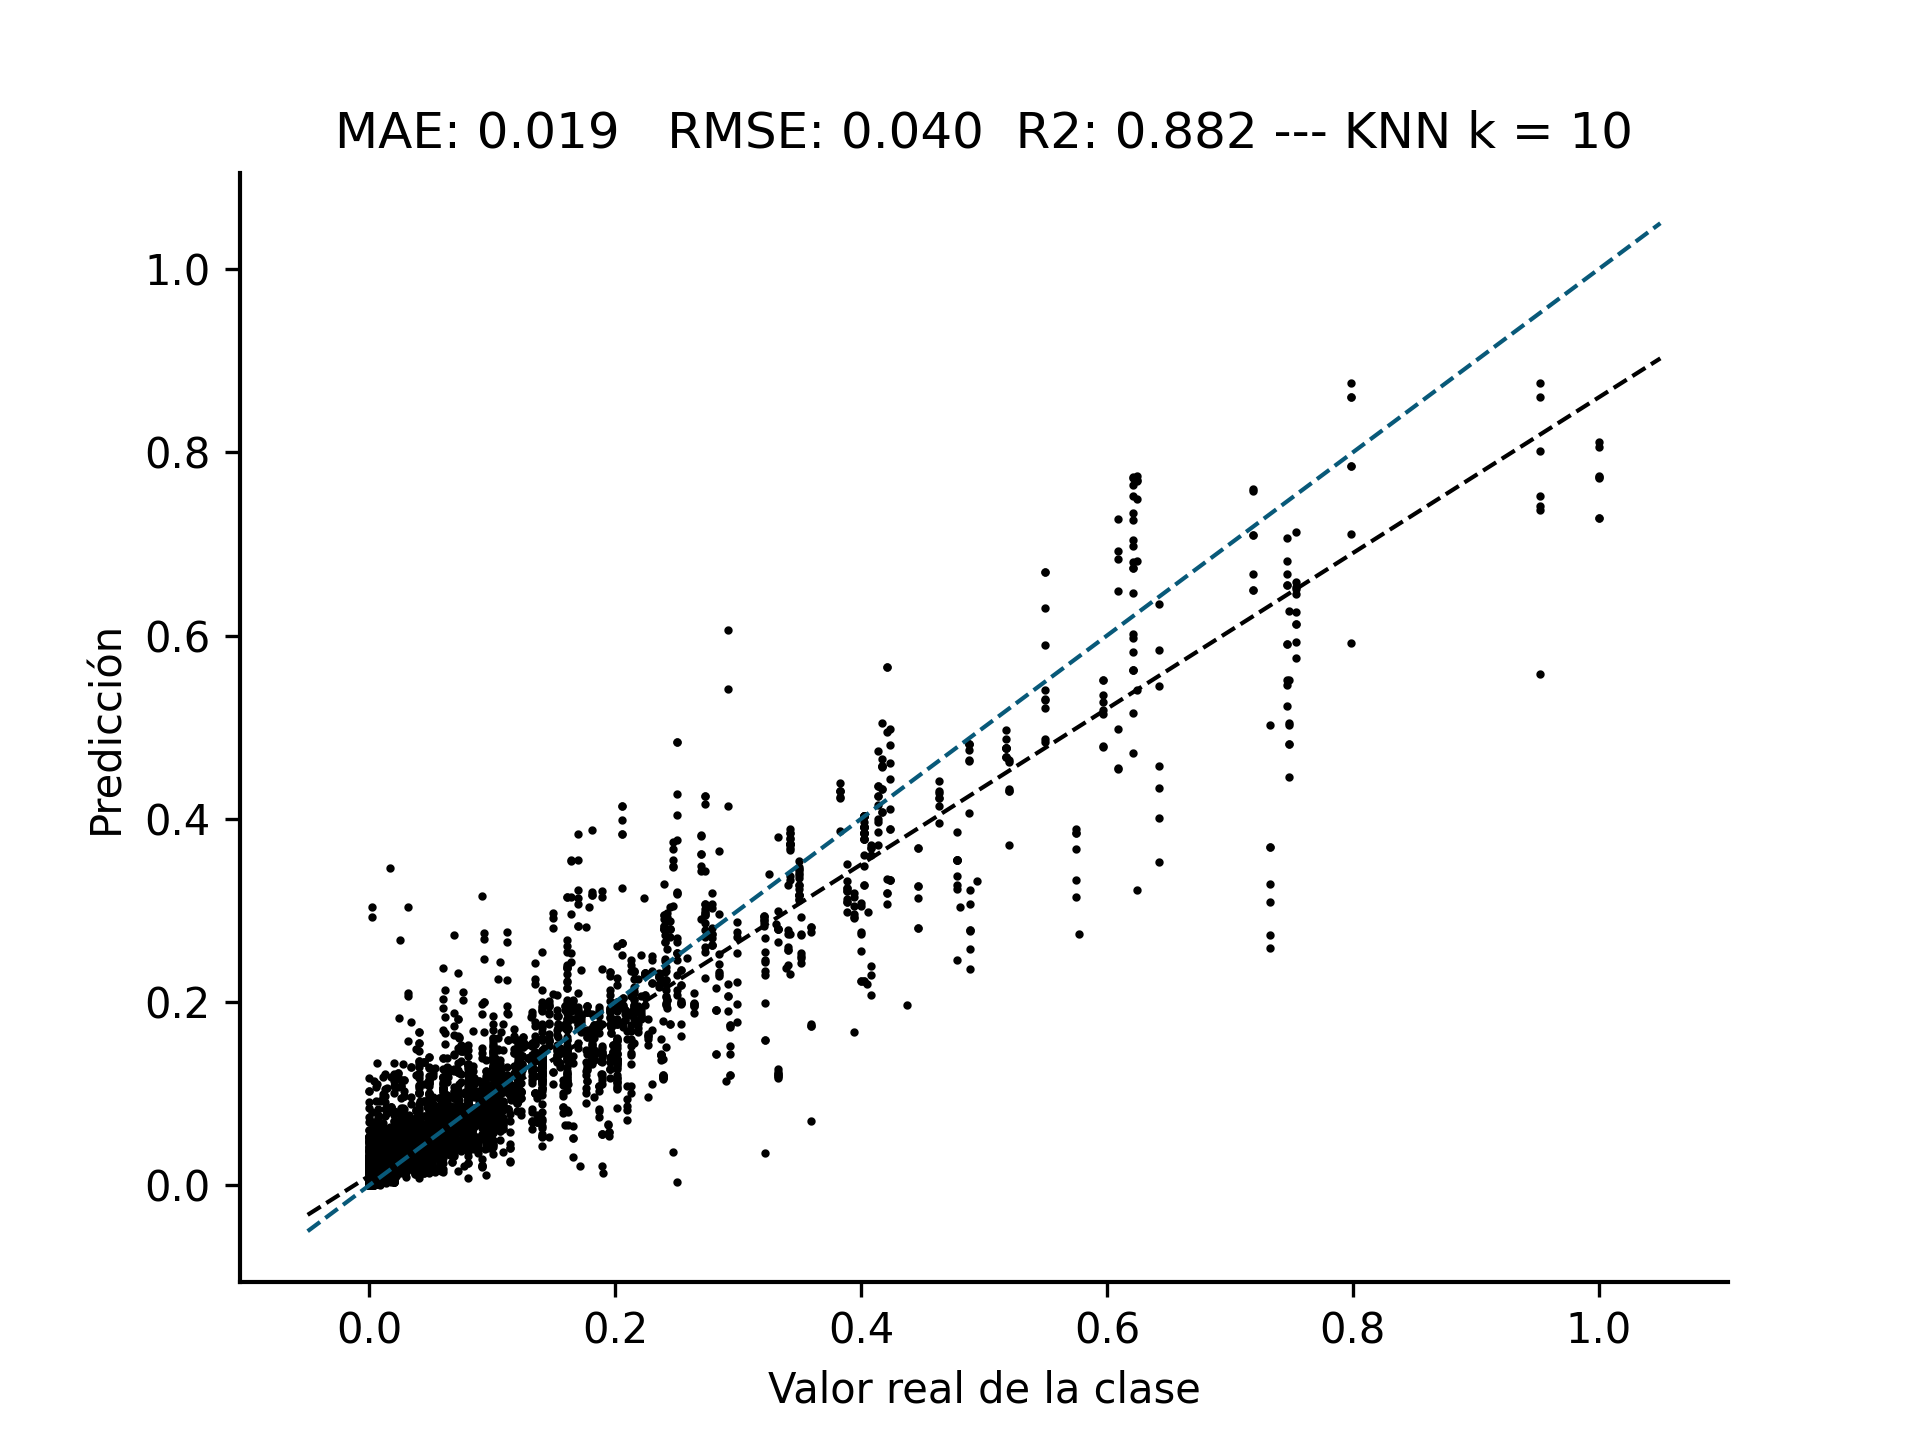
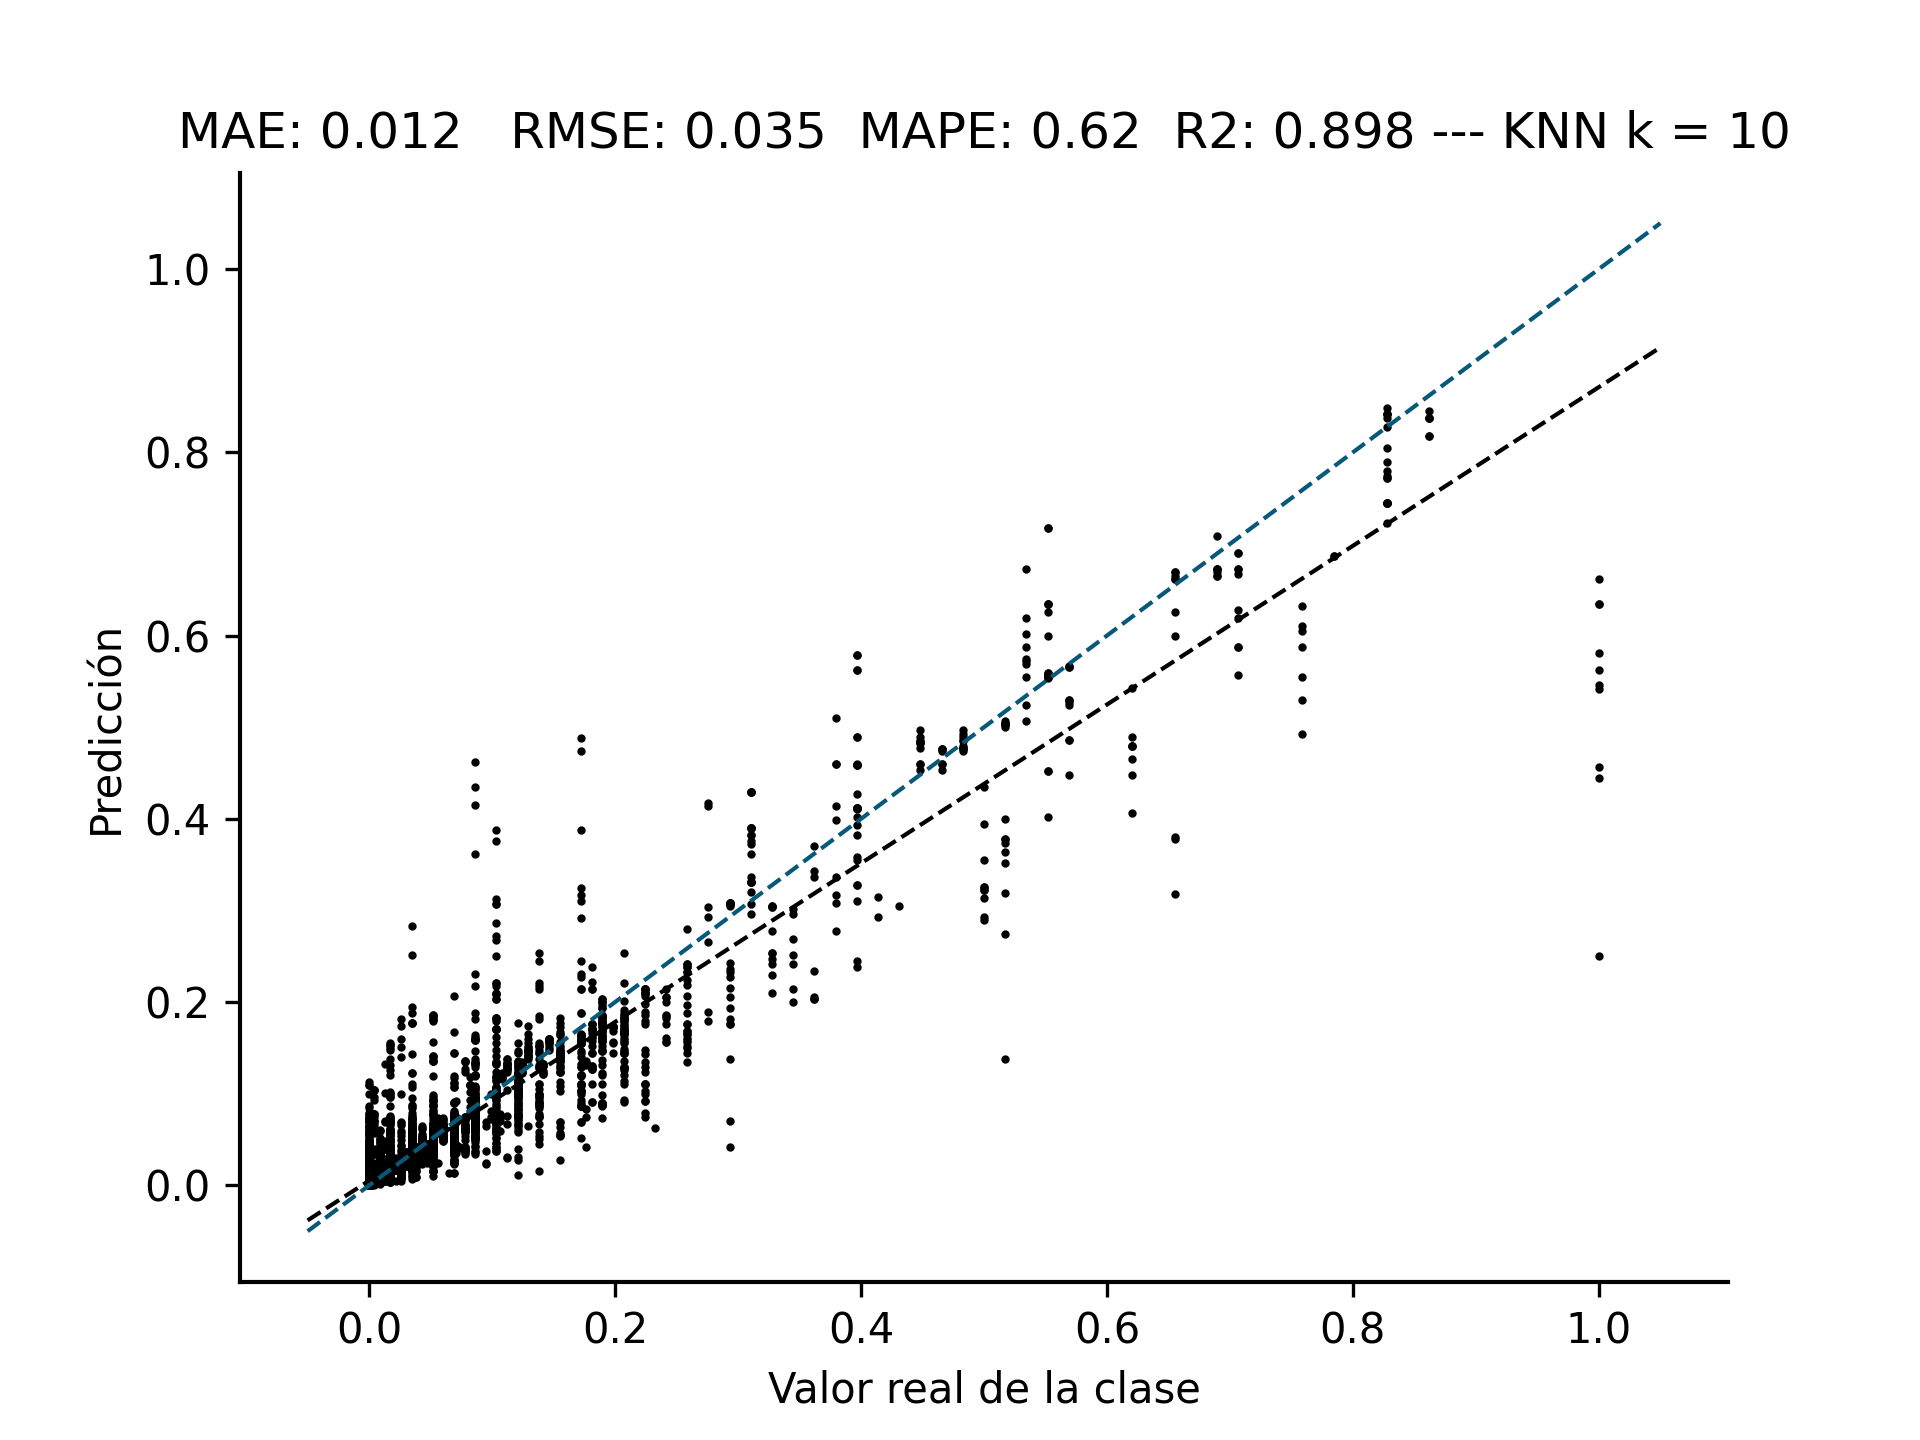
Document - Graphs changed

diff --git a/code_.py b/code_.py
@@ -25,17 +25,18 @@ def mape(y_true, y_pred):
         return np.mean(np.abs((y_true[mask] - y_pred[mask]) / y_true[mask]))
 
 
-def plot_graph(target, y_pred, title, name, metricas):
+def plot_graph(target, y_pred, title, name, metricas, aux = 0):
         # ** CÁLCULO DE LAS MÉTRICAS DE EVALUACIÓN
-        # MAE = metricas['MAE'](target, y_pred)
-        # RMSE = metricas['RMSE'](target, y_pred)
-        # MAPE = mape(target, y_pred)
-        # R2 = metricas['R2'](target, y_pred)
-        
-        ACC = metricas['ACC'](target, y_pred)
-        PREC = metricas['PREC'](target, y_pred)
-        RECALL = metricas['RECALL'](target, y_pred)
-        F1 = metricas['F1'](target, y_pred)
+        if aux == 0:
+                MAE = metricas['MAE'](target, y_pred)
+                RMSE = metricas['RMSE'](target, y_pred)
+                MAPE = mape(target, y_pred)
+                R2 = metricas['R2'](target, y_pred)
+        else:
+                ACC = metricas['ACC'](target, y_pred)
+                PREC = metricas['PREC'](target, y_pred)
+                RECALL = metricas['RECALL'](target, y_pred)
+                F1 = metricas['F1'](target, y_pred)
 
         # ** PLOT GRAPH
         fig, ax = plt.subplots()
@@ -53,27 +54,27 @@ def plot_graph(target, y_pred, title, name, metricas):
         ax.spines['left'].set_linewidth(1)
         ax.spines['top'].set_visible(False)
         ax.spines['right'].set_visible(False)
-        #title_ = "MAE: %.3f   RMSE: %.3f  MAPE: %.2f  R2: %.3f --- " % (MAE, RMSE, MAPE, R2)
-        title_ = "ACC: %.3f   PREC: %.3f  RECALL: %.2f  F1: %.3f --- " % (ACC, PREC, RECALL, F1)
+        if aux == 0:  
+                title_ = "MAE: %.3f   RMSE: %.3f  MAPE: %.2f  R2: %.3f --- " % (MAE, RMSE, MAPE, R2)
+        else:
+                title_ = "ACC: %.3f   PREC: %.3f  RECALL: %.2f  F1: %.3f --- " % (ACC, PREC, RECALL, F1)
         plt.title(title_ + str(title))
-        plt.savefig("ML - Data analysis - Olive grove plantations/graphs/" + str(name), dpi=300)
+        plt.savefig("graphs/" + str(name), dpi=300)
+        plt.show()
 
 # ** LECTURA DEL ARCHIVO ORIGINAL CSV
-df_H1 = pd.read_csv("ML - Data analysis - Olive grove plantations/csv/csv_result-sds_PICA_H1.csv", 
+df_H1 = pd.read_csv("csv/csv_result-sds_PICA_H1.csv", 
                  decimal=".", delimiter=",", na_values=['','?', ' '], on_bad_lines='skip') # na_values=['','?']
-df_H2 = pd.read_csv("ML - Data analysis - Olive grove plantations/csv/csv_result-sds_PICA_H2.csv", 
+df_H2 = pd.read_csv("csv/csv_result-sds_PICA_H2.csv", 
                  decimal=".", delimiter=",", na_values=['','?', ' '], on_bad_lines='skip')
-df_H3 = pd.read_csv("ML - Data analysis - Olive grove plantations/csv/csv_result-sds_PICA_H3.csv", 
+df_H3 = pd.read_csv("csv/csv_result-sds_PICA_H3.csv", 
                  decimal=".", delimiter=",", na_values=['','?', ' '], on_bad_lines='skip')
-df_H4 = pd.read_csv("ML - Data analysis - Olive grove plantations/csv/csv_result-sds_PICA_H4.csv", 
+df_H4 = pd.read_csv("csv/csv_result-sds_PICA_H4.csv", 
                  decimal=".", delimiter=",", na_values=['','?', ' '], on_bad_lines='skip')
 
 df = pd.concat([df_H1, df_H2, df_H3, df_H4], axis=0)
 
-df = pd.read_csv("ML - Data analysis - Olive grove plantations/csv/csv_result-sds_TRAM_H1.csv", 
-                 decimal=".", delimiter=",", na_values=['','?', ' '], on_bad_lines='skip')
-
-
+df = df_H1
 
 # ** TRATAMIENTO VALORES NULOS. SUSTITUCIÓN IN-PLACE POR MEDIA ARITMÉTICA
 n_instances = df.shape[0]
@@ -149,7 +150,7 @@ seed = 1
 y_pred = model_selection.cross_val_predict(reg, data, target, 
                            cv = KFold(n_splits=10, random_state=seed, shuffle=True))
 # ** GRÁFICA MATPLOTLIB
-# plot_graph(target, y_pred, "REG", "RLM.png", metricas_rg)
+plot_graph(target, y_pred, "REG", "RLM.png", metricas_rg)
 
 
 # ** OPTMIZACIÓN DEL ALGORITMO CON ELIMINACIÓN RECURSIVA - SELECCIÓN DE ATRIBUTOS
@@ -164,7 +165,7 @@ seed = 1
 y_pred = model_selection.cross_val_predict(reg, data[:, selected_features], target, 
                            cv = KFold(n_splits=10, random_state=seed, shuffle=True))
 # ** GRÁFICA MATPLOTLIB
-# plot_graph(target, y_pred, "REG OPT", "RLM_Optimized.png", metricas_rg)
+plot_graph(target, y_pred, "REG OPT", "RLM_Optimized.png", metricas_rg)
 
 
 # ** MODELADO SUPERVISADO - KNN
@@ -175,20 +176,20 @@ seed = 1
 y_pred = model_selection.cross_val_predict(knn, data, target, 
                            cv = KFold(n_splits=10, random_state=seed, shuffle=True))
 # ** GRÁFICA MATPLOTLIB
-# plot_graph(target, y_pred, "KNN k = " + str(k), "KNN.png", metricas_rg)
+plot_graph(target, y_pred, "KNN k = " + str(k), "KNN.png", metricas_rg)
 
 
-# ** MODELADO CATEGÓRICO - LOGR
-logr = LogisticRegression(solver='sag', max_iter=100, random_state=seed, multi_class='auto')
+# # ** MODELADO CATEGÓRICO - LOGR
+# logr = LogisticRegression(solver='sag', max_iter=100, random_state=seed, multi_class='auto')
 
-bins = 20
-target_cat = pd.cut(target, bins, labels=[i for i in range(bins)])
+# bins = 20
+# target_cat = pd.cut(target, bins, labels=[i for i in range(bins)])
 
-# ** PREDICCIÓN DE LA VARIABLE OBJETIVO - CLASE (LOGR)
-y_pred = model_selection.cross_val_predict(logr, data, target_cat, cv = KFold(n_splits=10, random_state=seed, shuffle=True))
+# # ** PREDICCIÓN DE LA VARIABLE OBJETIVO - CLASE (LOGR)
+# y_pred = model_selection.cross_val_predict(logr, data, target_cat, cv = KFold(n_splits=10, random_state=seed, shuffle=True))
 
-# ** GRÁFICA MATPLOTLIB
-plot_graph(target_cat, y_pred, "LOGR" + str(k), "LOGR.png", metricas_ct)
+# # ** GRÁFICA MATPLOTLIB
+# plot_graph(target_cat, y_pred, "LOGR" + str(k), "LOGR.png", metricas_ct, 1)
 
 
 
